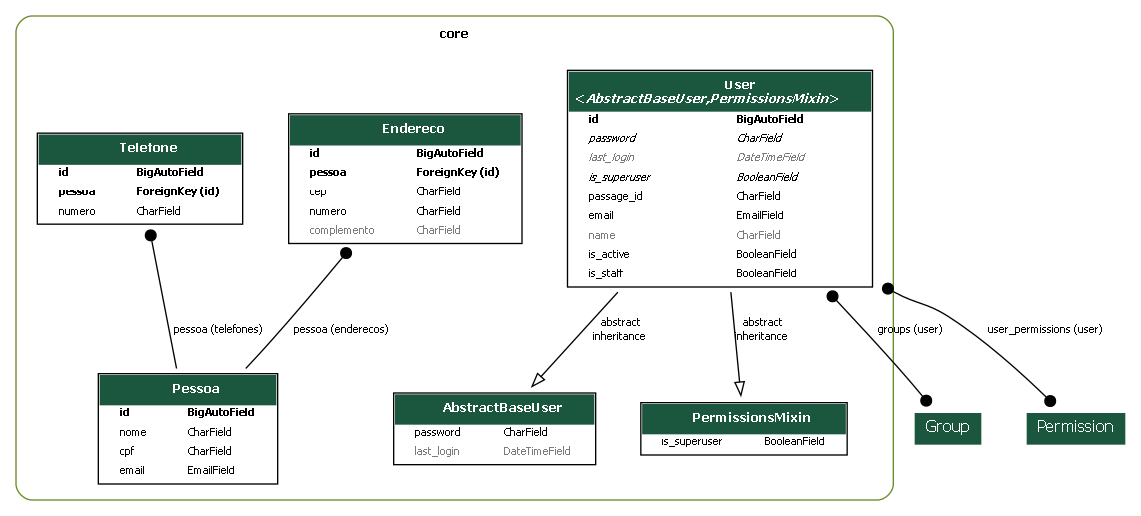
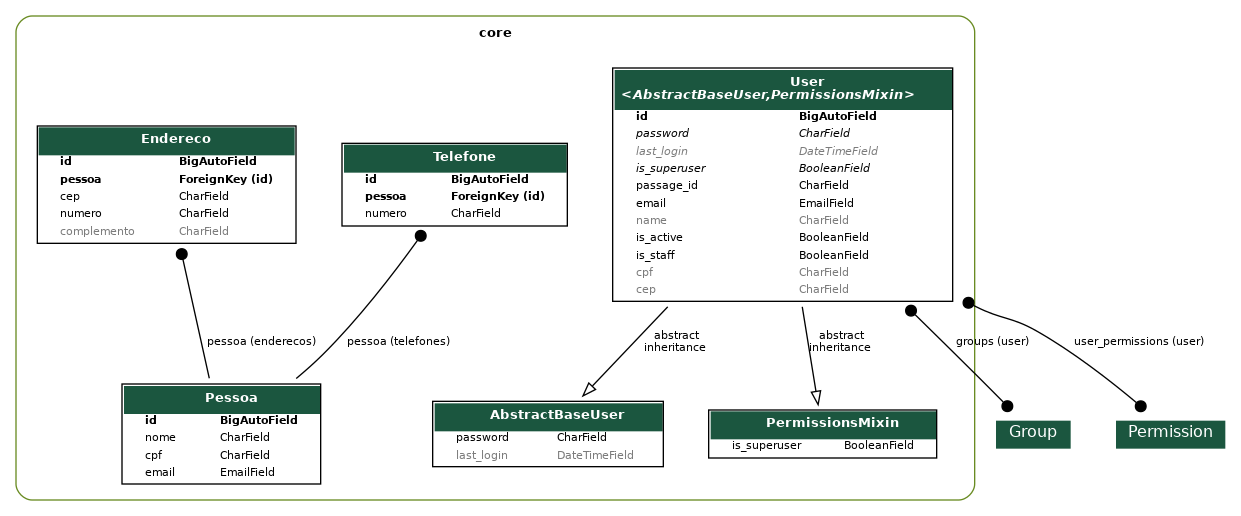
FEAT: adição de cpf e cep na tabela usuario

diff --git a/core/admin.py b/core/admin.py
@@ -16,7 +16,7 @@ class UserAdmin(BaseUserAdmin):
     list_display = ['email', 'name']
     fieldsets = (
         (None, {'fields': ('email', 'password')}),
-        (_('Personal Info'), {'fields': ('name', 'passage_id')}),
+        (_('Personal Info'), {'fields': ('name', 'passage_id', 'cpf', 'cep')}),
         (
             _('Permissions'),
             {
@@ -42,6 +42,8 @@ class UserAdmin(BaseUserAdmin):
                     'password1',
                     'password2',
                     'name',
+                    'cpf',
+                    'cep',
                     'is_active',
                     'is_staff',
                     'is_superuser',

diff --git a/core/migrations/0006_user_cep_user_cpf.py b/core/migrations/0006_user_cep_user_cpf.py
@@ -1,0 +1,23 @@
+# Generated by Django 5.2.1 on 2025-08-12 19:37
+
+from django.db import migrations, models
+
+
+class Migration(migrations.Migration):
+
+    dependencies = [
+        ('core', '0005_pessoa_endereco_telefone'),
+    ]
+
+    operations = [
+        migrations.AddField(
+            model_name='user',
+            name='cep',
+            field=models.CharField(blank=True, max_length=8, null=True),
+        ),
+        migrations.AddField(
+            model_name='user',
+            name='cpf',
+            field=models.CharField(blank=True, max_length=11, null=True),
+        ),
+    ]

diff --git a/core/models/user.py b/core/models/user.py
@@ -2,6 +2,7 @@
 Database models.
 """
 
+from hashlib import blake2b
 from django.contrib.auth.models import (
     AbstractBaseUser,
     BaseUserManager,
@@ -51,6 +52,8 @@ class User(AbstractBaseUser, PermissionsMixin):
         verbose_name=_('Usuário é da equipe'),
         help_text=_('Indica que este usuário pode acessar o Admin.'),
     )
+    cpf = models.CharField(max_length=11, blank=True, null=True, verbose_name=_('cpf'), help_text=_('CPF'))
+    cep = models.CharField(max_length=8, blank=True, null=True, verbose_name=_('cep'), help_text=_('CEP'))
 
     objects = UserManager()
 

diff --git a/core/migrations/0007_alter_user_cpf.py b/core/migrations/0007_alter_user_cpf.py
@@ -1,0 +1,18 @@
+# Generated by Django 5.2.1 on 2025-08-12 19:38
+
+from django.db import migrations, models
+
+
+class Migration(migrations.Migration):
+
+    dependencies = [
+        ('core', '0006_user_cep_user_cpf'),
+    ]
+
+    operations = [
+        migrations.AlterField(
+            model_name='user',
+            name='cpf',
+            field=models.CharField(blank=True, help_text='CPF', max_length=11, null=True, verbose_name='cpf'),
+        ),
+    ]

diff --git a/core/migrations/0008_alter_user_cep.py b/core/migrations/0008_alter_user_cep.py
@@ -1,0 +1,18 @@
+# Generated by Django 5.2.1 on 2025-08-12 19:39
+
+from django.db import migrations, models
+
+
+class Migration(migrations.Migration):
+
+    dependencies = [
+        ('core', '0007_alter_user_cpf'),
+    ]
+
+    operations = [
+        migrations.AlterField(
+            model_name='user',
+            name='cep',
+            field=models.CharField(blank=True, help_text='CEP', max_length=8, null=True, verbose_name='cep'),
+        ),
+    ]
